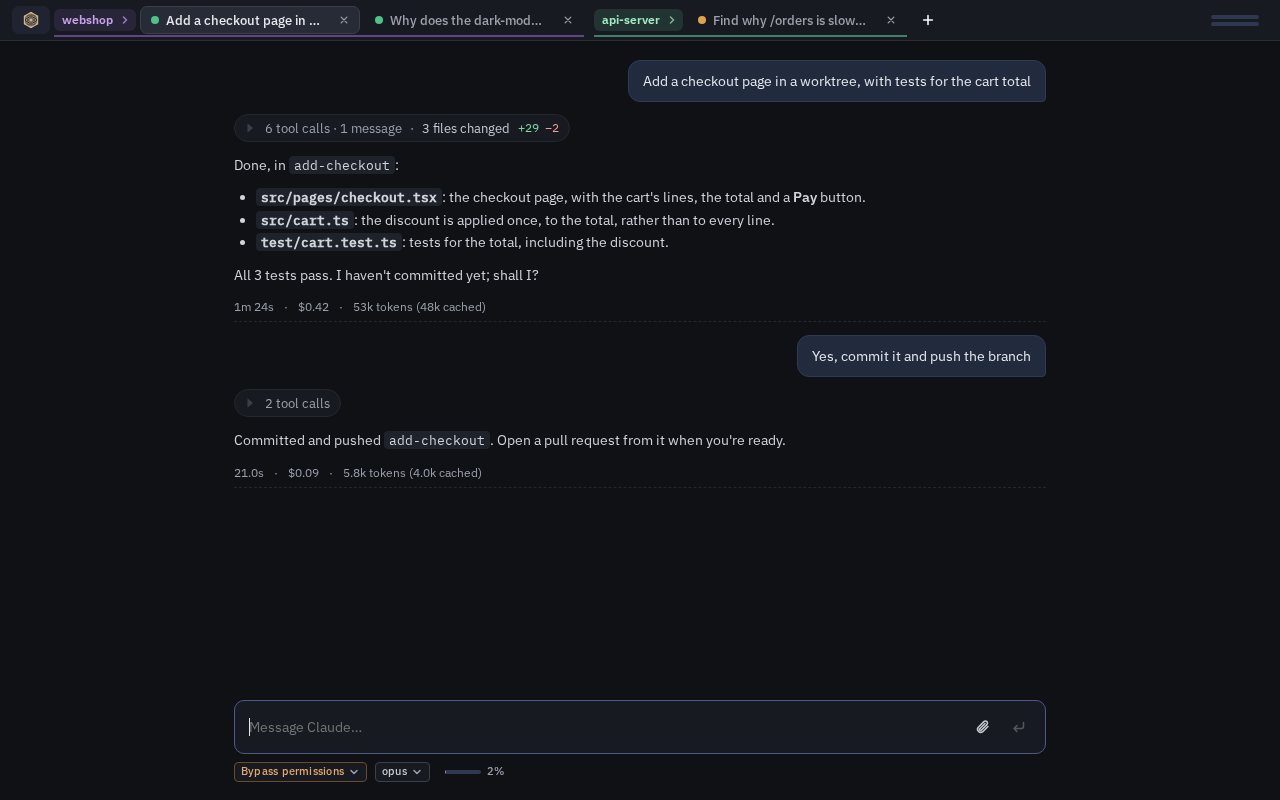
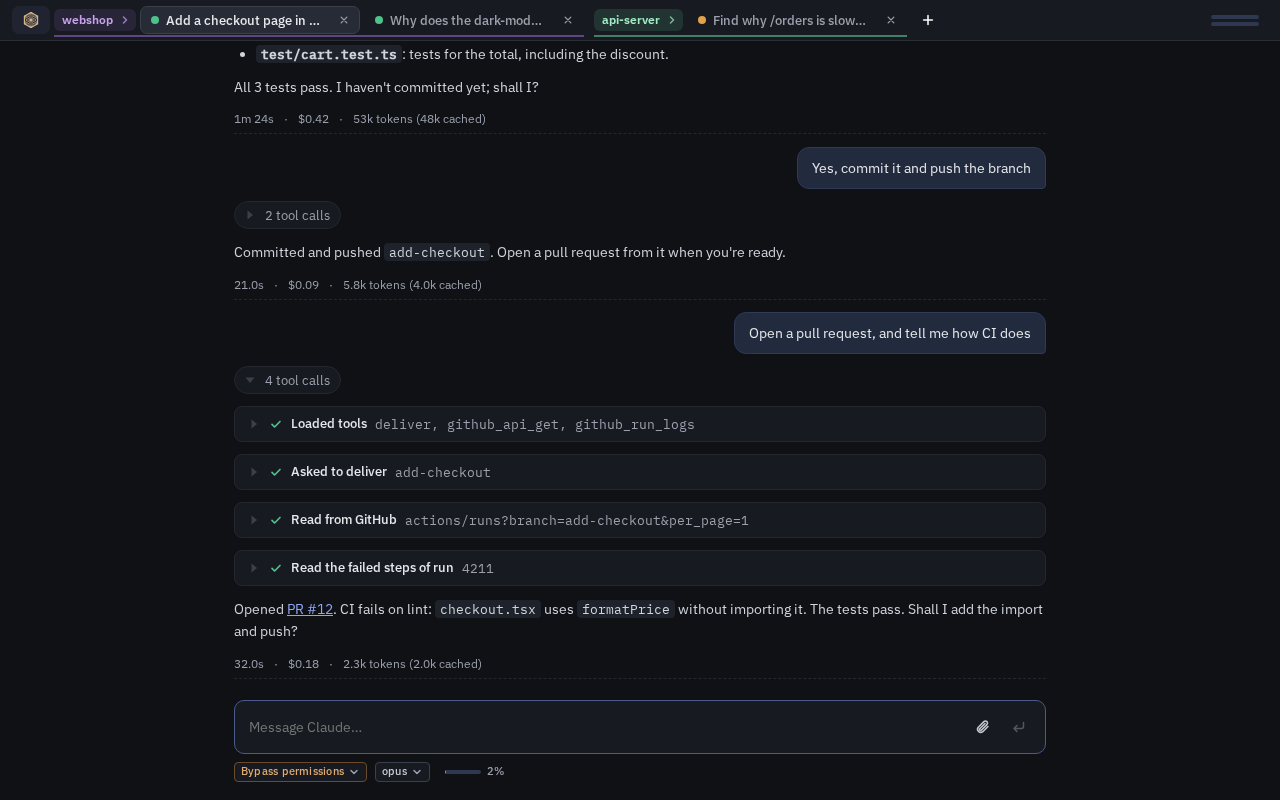
Show Kumiko's tools unfolded in the session screenshot
The demo session gets a third turn in which the agent opens a pull
request with deliver and reads CI with github_api_get and
github_run_logs. The script drives Chrome over its DevTools protocol for
that screenshot, to unfold the turn's tool calls first, so the picture
shows how the chat names them.

diff --git a/apps/docs/src/content/docs/guide/sessions.md b/apps/docs/src/content/docs/guide/sessions.md
@@ -8,7 +8,7 @@ sidebar:
 A session is one conversation with the agent, in one tab. The agent runs in the sandbox, starting in `/workspace`,
 above its repos. It keeps running between your messages until you close the tab, even while Kumiko isn't running.
 
-![A session: the first turn's tool calls folded into one line, the agent's reply, and the turn's time, cost and tokens.](../../../assets/screenshots/session.png)
+![A session: a turn's tool calls folded into one line, and the last turn's unfolded, each saying what it did, such as opening a pull request and reading CI, then the agent's reply, with the turn's time, cost and tokens.](../../../assets/screenshots/session.png)
 
 ## Start a session
 

diff --git a/apps/docs/src/content/docs/development/writing-docs.md b/apps/docs/src/content/docs/development/writing-docs.md
@@ -64,7 +64,8 @@ npm run build && node apps/docs/scripts/screenshots.mjs
 ```
 
 The script starts a server against the fakes, builds a demo of three sandboxes with sessions, and photographs it with
-a headless Chrome. The pictures go to `apps/docs/src/assets/screenshots`.
+a headless Chrome. The pictures go to `apps/docs/src/assets/screenshots`. For the session, the script drives Chrome over
+its DevTools protocol, to unfold the last turn's tool calls before the picture is taken.
 
 - `DEMO_ROOT` is where the demo's Kumiko home and GitHub stand-in go. Its path shows in the screenshots. It defaults
   to `/Users/you`, which has to exist and be writable:
